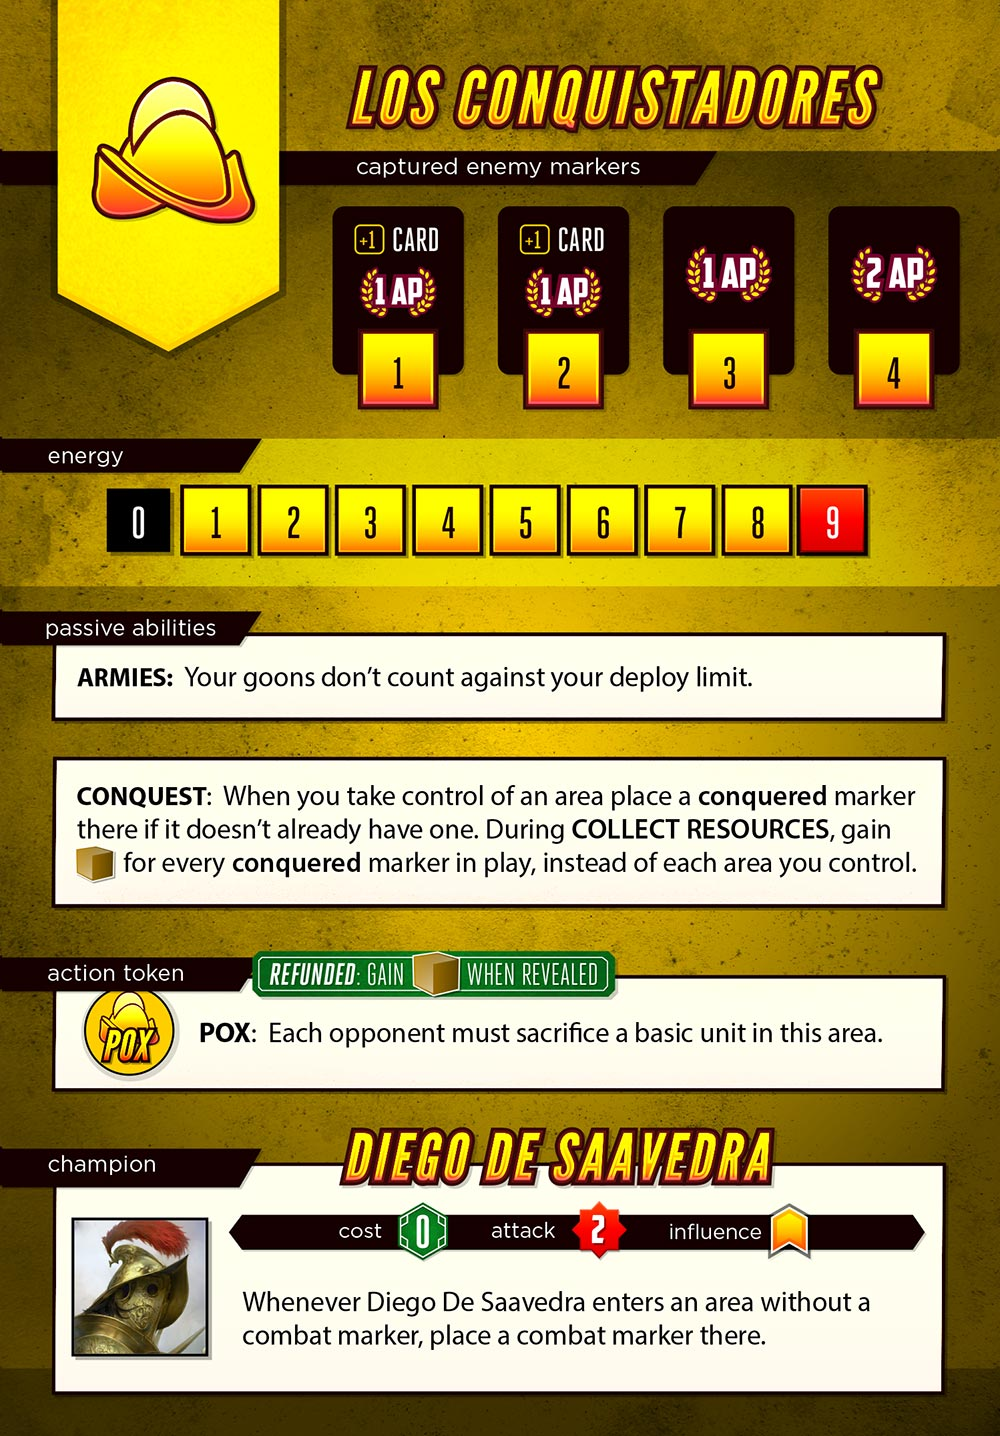
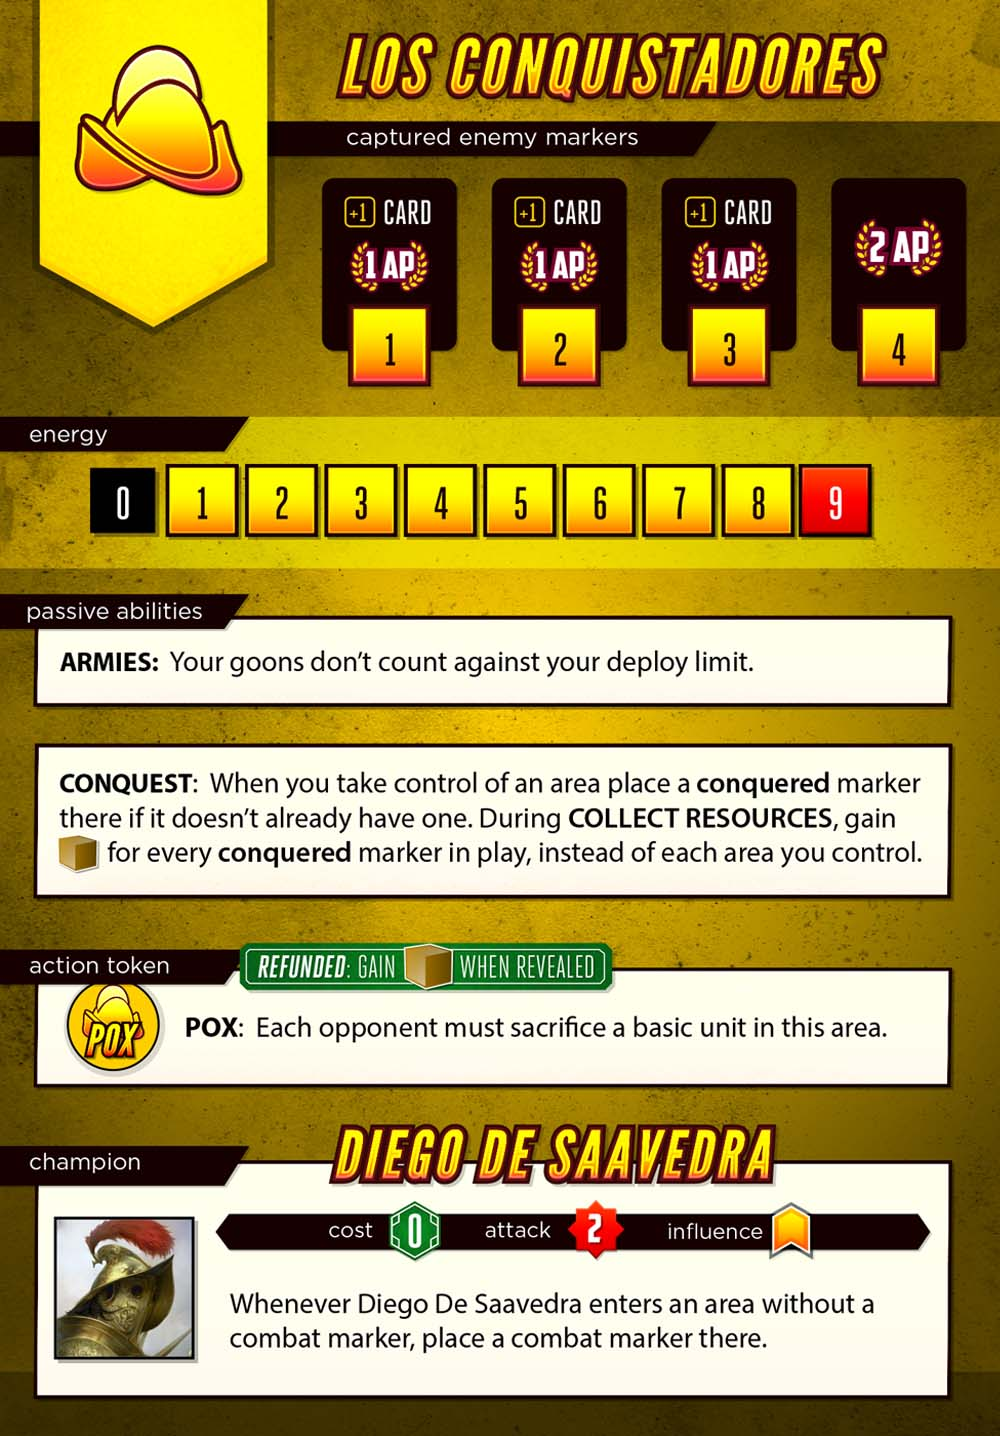
Add extra card token and card capture upgrade to spanish dudes

diff --git a/server/classes/factions/Conquistadors.js b/server/classes/factions/Conquistadors.js
@@ -23,12 +23,13 @@ class Conquistadors extends Faction {
         this.capturedRewards = [
             { ap : 1, cardDraw : 1 },
             { ap : 1, cardDraw : 1 },
-            { ap : 1 },
+            { ap : 1, cardDraw : 1 },
             { ap : 2 },
         ];
 
         // tokens
         this.tokens['move'].count = 2;
+        this.tokens['card'].count = 4;
 
         this.tokens['pox'] = {
             count: 1,
